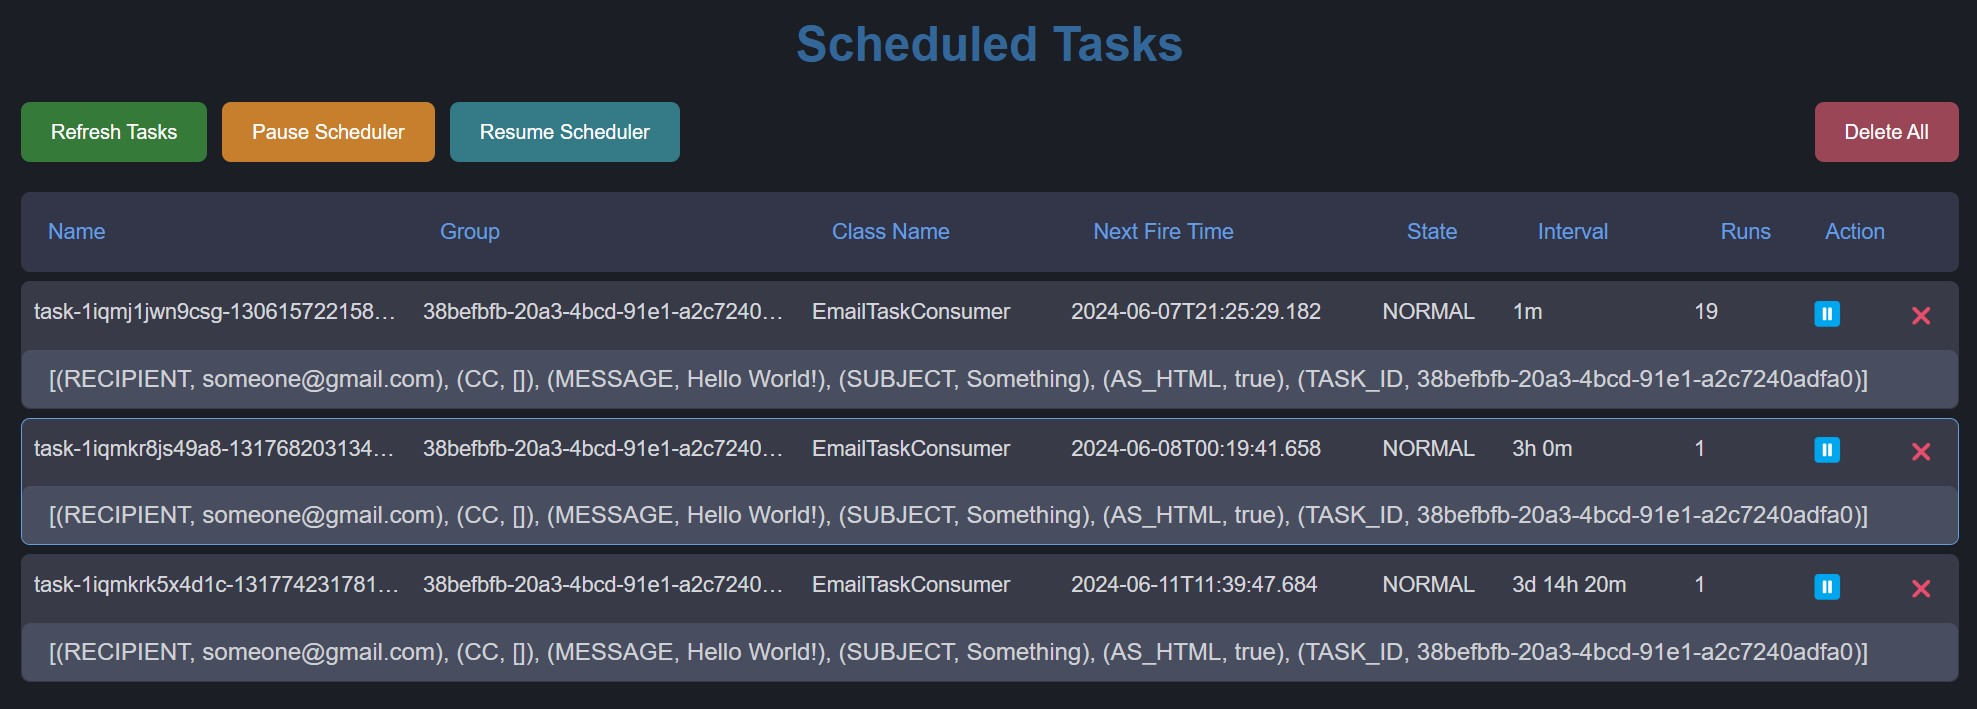
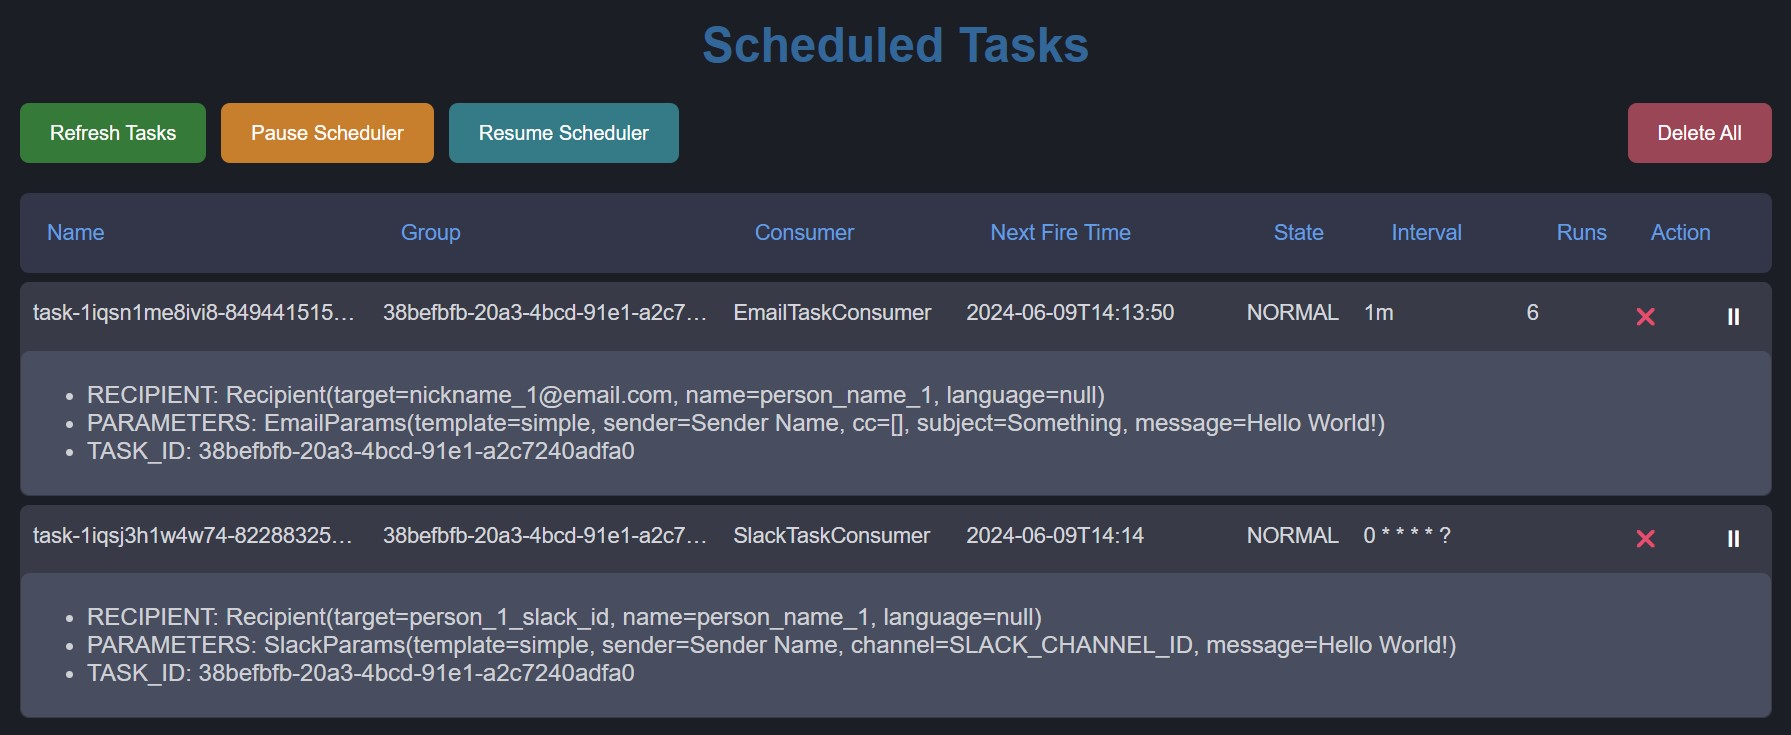
Improved dashboard display for scheduler task concrete details

diff --git a/ktask-base/src/main/resources/templates/scheduler-dashboard.html b/ktask-base/src/main/resources/templates/scheduler-dashboard.html
@@ -69,7 +69,7 @@
         .table-sub-row {
             background-color: #484d60;
             color: #cfd0d5;
-            padding: 10px;
+            padding: 4px;
             border-radius: 6px;
             margin-top: 5px;
         }
@@ -81,13 +81,6 @@
             white-space: nowrap;
             overflow: hidden;
             text-overflow: ellipsis;
-        }
-
-        .table-sub-row span {
-            text-align: left;
-            padding: 8px;
-            white-space: normal;
-            overflow: visible;
         }
 
         button {
@@ -171,7 +164,7 @@
 <div class="table-header">
     <span>Name</span>
     <span>Group</span>
-    <span>Class Name</span>
+    <span>Consumer</span>
     <span>Next Fire Time</span>
     <span>State</span>
     <span>Interval</span>
@@ -183,7 +176,7 @@
         <div class="table-row">
             <span th:text="${item.name}">Task Name</span>
             <span th:text="${item.group}">Task Group</span>
-            <span th:text="${item.className}">Class Name</span>
+            <span th:text="${item.className}">Consumer</span>
             <span th:text="${item.nextFireTime}">Next Fire Time</span>
             <span th:text="${item.state}">State</span>
             <span th:text="${item.interval}">Interval</span>
@@ -205,7 +198,9 @@
             </div>
         </div>
         <div class="table-sub-row">
-            <span th:text="${item.dataMap}">Data Map Content</span>
+            <ul>
+                <li th:each="entry : ${item.dataMap}" th:text="${entry}">Data Map Entry</li>
+            </ul>
         </div>
     </div>
 </div>

diff --git a/ktask-base/src/main/kotlin/ktask/base/scheduler/service/core/SchedulerService.kt b/ktask-base/src/main/kotlin/ktask/base/scheduler/service/core/SchedulerService.kt
@@ -261,6 +261,9 @@ object SchedulerService {
                 } else null
             } ?: (null to null)
 
+            // Resolve the concrete parameters of the task.
+            val dataMap: List<String> = taskDetail.jobDataMap.entries.map { (key, value) -> "$key: $value" }
+
             return TaskScheduleEntity(
                 name = jobKey.name,
                 group = jobKey.group,
@@ -269,7 +272,7 @@ object SchedulerService {
                 state = mostRestrictiveState.name,
                 interval = interval,
                 runs = runs,
-                dataMap = taskDetail.jobDataMap.toList().toString(),
+                dataMap = dataMap,
             )
         }
 

diff --git a/ktask-base/src/main/kotlin/ktask/base/scheduler/entity/TaskScheduleEntity.kt b/ktask-base/src/main/kotlin/ktask/base/scheduler/entity/TaskScheduleEntity.kt
@@ -17,7 +17,7 @@ import ktask.base.utils.KLocalDateTime
  * @property state The state of the task, eg: 'PAUSED', 'NORMAL', etc.
  * @property interval The interval at which the task should repeat.
  * @property runs The number of times the task has been triggered.
- * @property dataMap Concrete state information for a Task instance.
+ * @property dataMap Concrete parameters of the task.
  */
 @Serializable
 data class TaskScheduleEntity(
@@ -28,5 +28,5 @@ data class TaskScheduleEntity(
     val state: String,
     val interval: String?,
     val runs: Int?,
-    val dataMap: String,
+    val dataMap: List<String>,
 )
